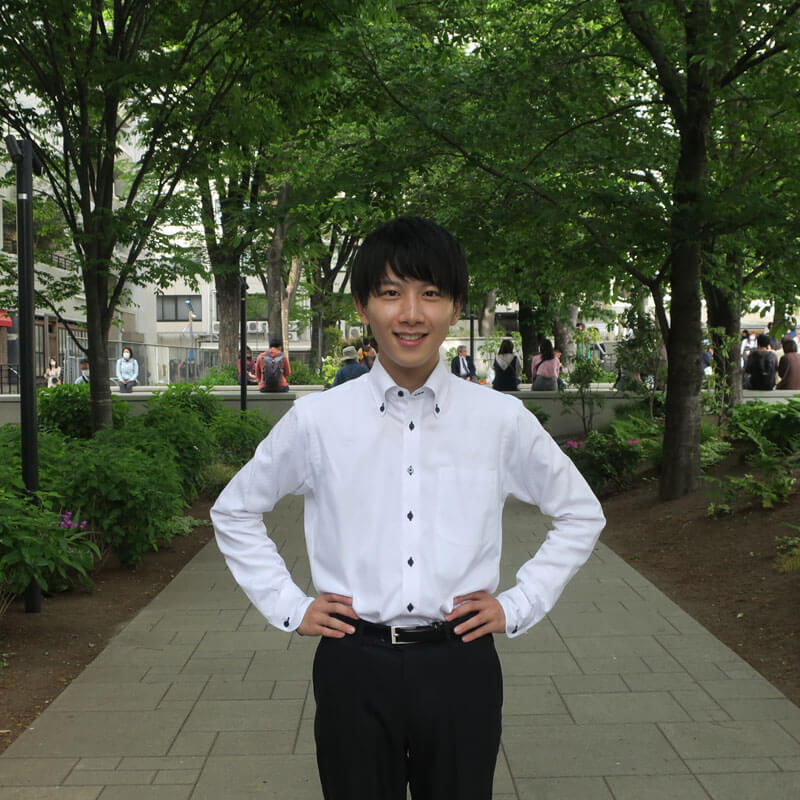
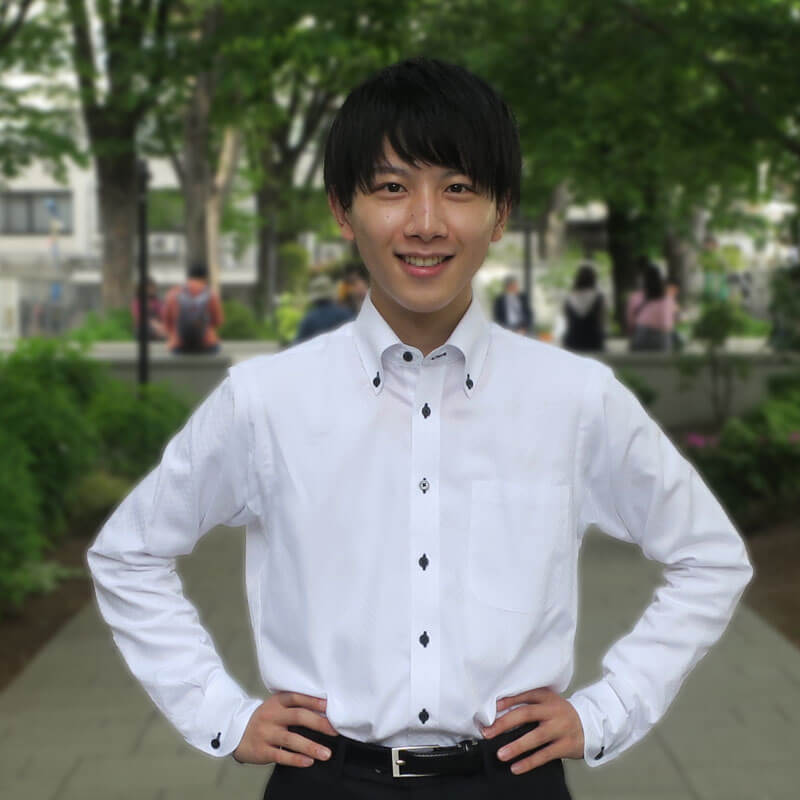
#45　駒田　不要なimgの削除とリネーム

diff --git a/about-us/index.html b/about-us/index.html
@@ -94,7 +94,7 @@
   <div class="modal-window" id="modal-window-komada">
     <div class="modal-window-wrapper">
       <div class="modal-window-img-box">
-        <img src="/step/img/about-us-pc/komada3.jpg" alt="モーダルceo">
+        <img src="/step/img/about-us-pc/komada2.jpg" alt="モーダルceo">
       </div>
       <div class="modal-window-txt-box">
         <p>代表取締役</p>
@@ -115,7 +115,7 @@
   <div class="modal-window" id="modal-window-inoue">
     <div class="modal-window-wrapper">
       <div class="modal-window-img-box">
-        <img src="/step/img/about-us-pc/inoue3.jpg" alt="モーダル_井上">
+        <img src="/step/img/about-us-pc/inoue2.jpg" alt="モーダル_井上">
       </div>
       <div class="modal-window-txt-box">
         <p>主任/フロントエンドエンジニア</p>
@@ -131,7 +131,7 @@
   <div class="modal-window" id="modal-window-umezawa">
     <div class="modal-window-wrapper">
       <div class="modal-window-img-box">
-        <img src="/step/img/about-us-pc/umezawa3.jpg" alt="モーダル_梅澤">
+        <img src="/step/img/about-us-pc/umezawa2.jpg" alt="モーダル_梅澤">
       </div>
       <div class="modal-window-txt-box">
         <p>webコンサルタント/バックエンドエンジニア</p>

diff --git a/README.md b/README.md
@@ -91,4 +91,4 @@ item
 #42-komada-js-marge  
 #43-komada-comment-del  
 #44-komada-contact-js-re  
-#45  
+#45-komada-img-rename  
